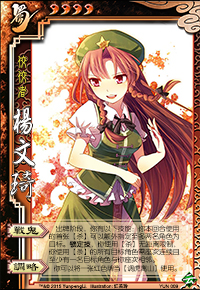
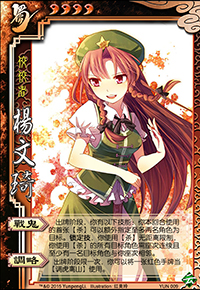
modify yangwen's skill diaolue v2.0

diff --git a/src/package/yun.cpp b/src/package/yun.cpp
@@ -437,7 +437,7 @@ public:
 class DiaolueVS : public OneCardViewAsSkill {
 public:
     DiaolueVS() : OneCardViewAsSkill("diaolue") {
-        filter_pattern = ".|red";
+        filter_pattern = ".|red|.|hand";
         response_or_use = true;
     }
 
